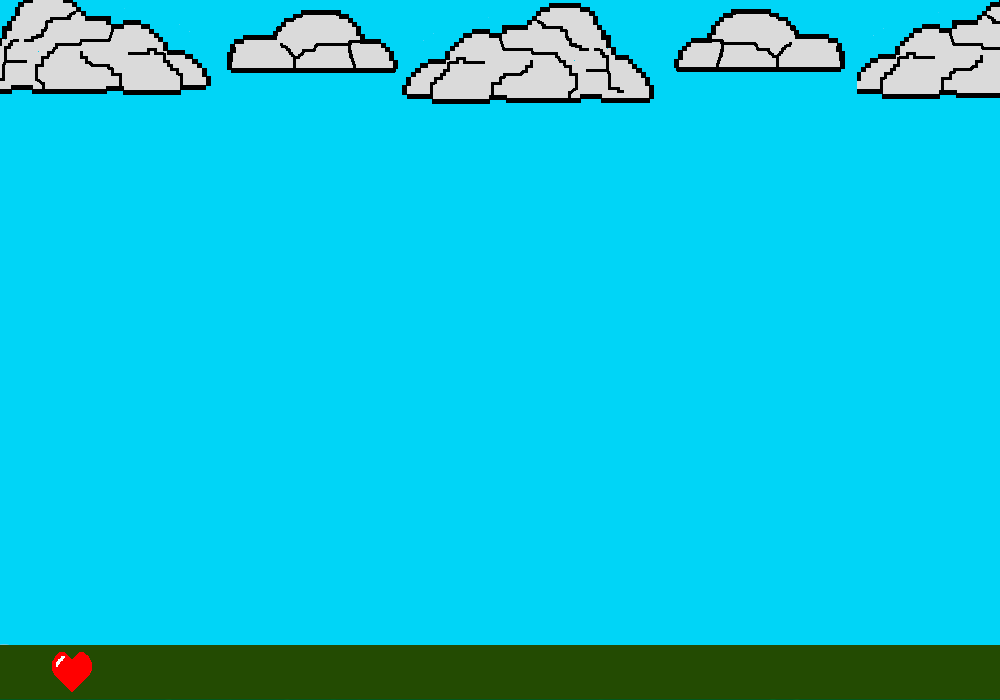
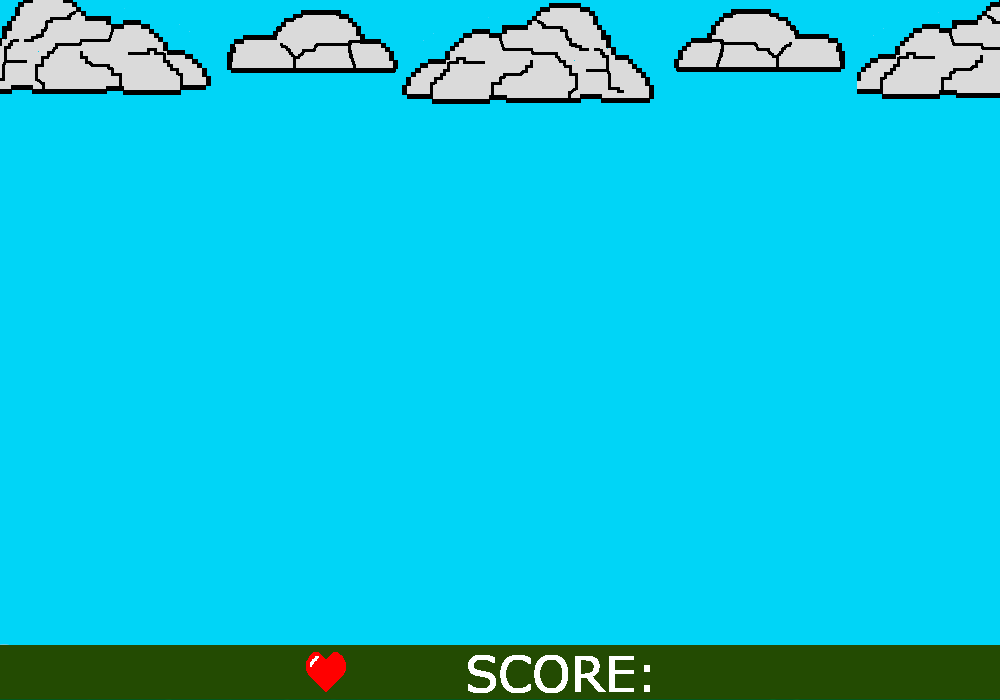
Added a Score and Health UI Display

Changed region(s): [[0.465, 0.93, 0.651, 0.99], [0.31, 0.93, 0.372, 0.99], [0.031, 0.93, 0.093, 0.99]]

diff --git a/player.py b/player.py
@@ -6,8 +6,6 @@ class Player:
     def __init__(self, screen, width, height):
         self.x_pos = width // 2
         self.y_pos = height * .85
-        self.health = 3
-        self.score = 0
         self.screen = screen
         self.screen_width = width
         self.tank_width = 100
@@ -23,11 +21,29 @@ class Player:
         self.barrel_angle = 90
         self.time_since_last_shot = 0
         self.machine_gun_active_time = 0
+        pygame.font.init()
+        font_size = 70
+        self.font = pygame.font.Font(None, font_size)
+        self.health = 3
+        self.health_pos_1_digit = (270, 650)
+        self.health_pos_2_digit = (240, 650)
+        self.score = 0
+        self.score_pos = (670, 650)
 
     def update(self):
         """Draws Player to Screen"""
         self.screen.blit(self.image, (self.x_pos, self.y_pos))
         self.screen.blit(self.target, self.target_location)
+
+        if self.health < 10:
+            health_surface = self.font.render(str(self.health), True, 'white')
+            self.screen.blit(health_surface, self.health_pos_1_digit)
+        else:
+            health_surface = self.font.render(str(self.health), True, 'white')
+            self.screen.blit(health_surface, self.health_pos_2_digit)
+
+        score_surface = self.font.render(str(self.score), True, 'white')
+        self.screen.blit(score_surface, self.score_pos)
 
         pygame.draw.line(self.screen, (117, 71, 18), self.center, self.aim_point, 5)
         self.time_since_last_shot -= 1
